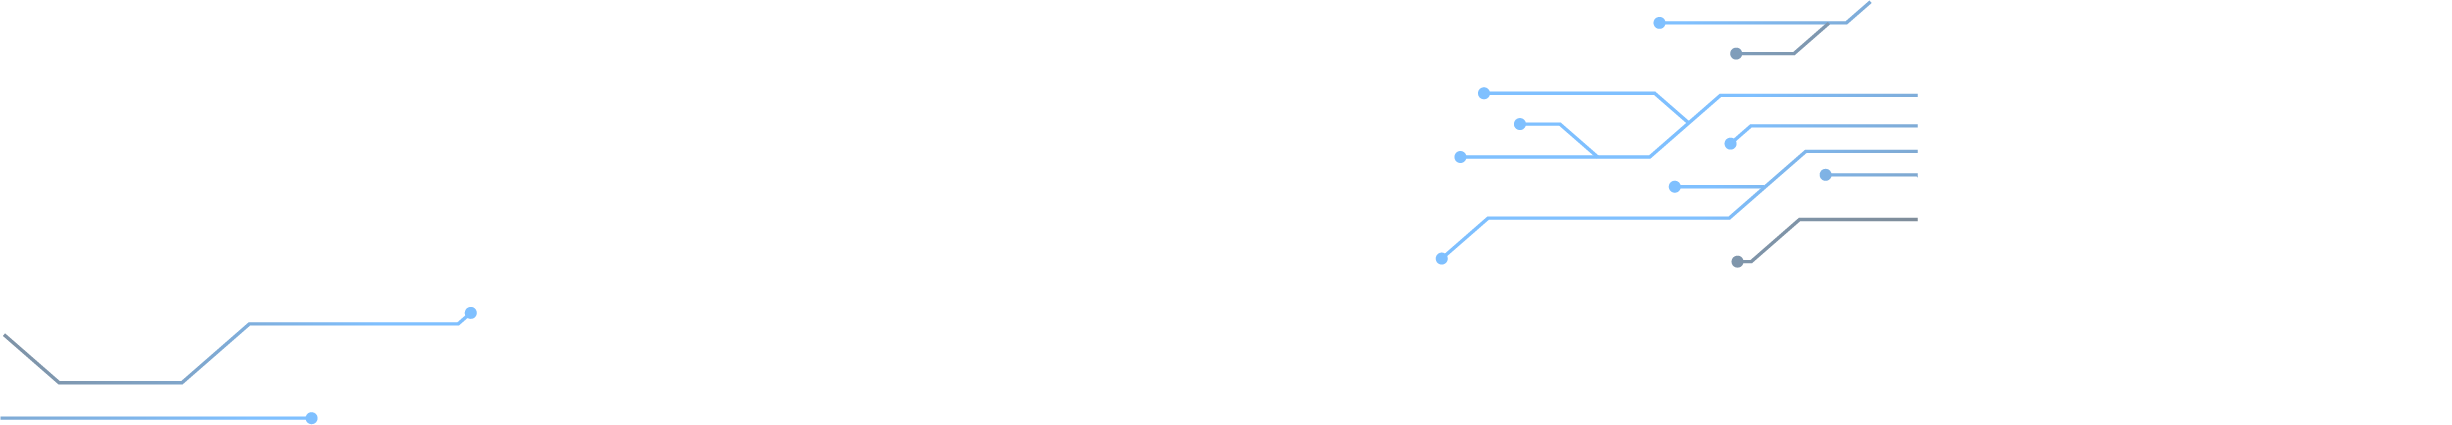
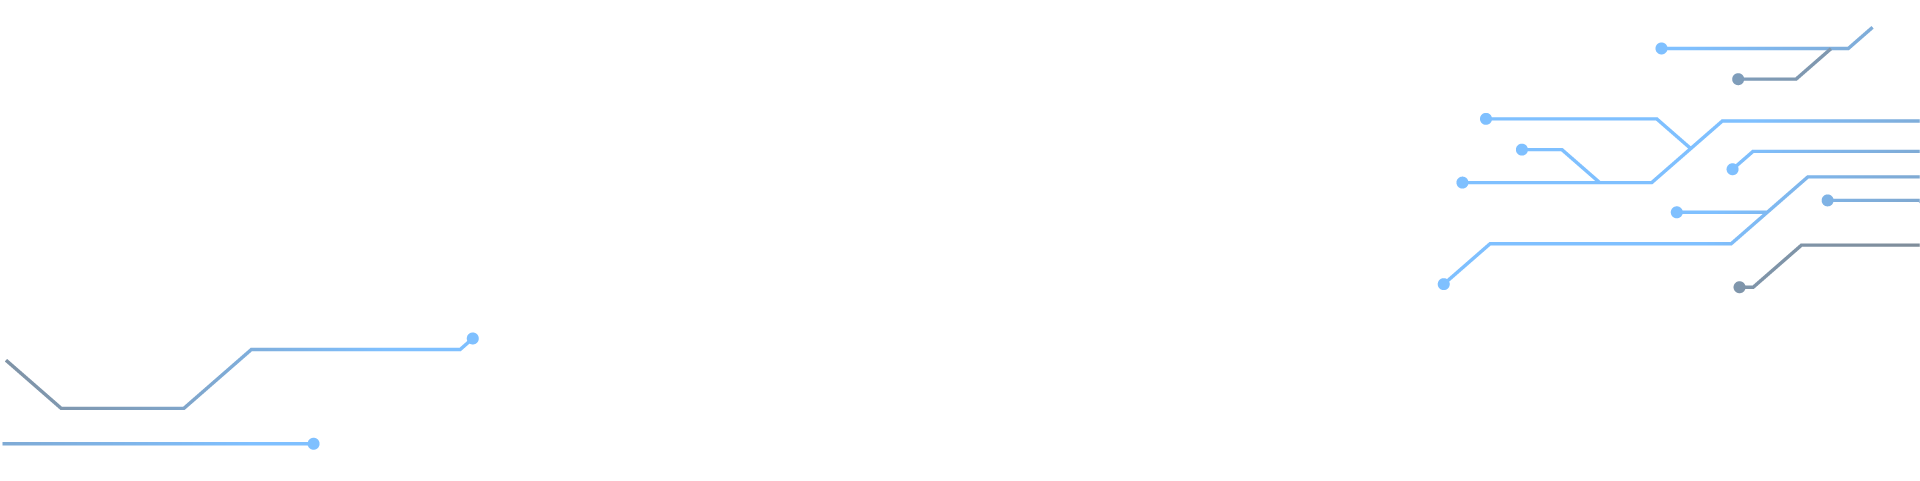
Finishing the history section

diff --git a/css/main.css b/css/main.css
@@ -1,1 +1,1 @@
-.title,.services__title,.companies__title{font-weight:600;color:#1C75BD;font-size:2rem}html{line-height:1.15;-webkit-text-size-adjust:100%;box-sizing:border-box;scroll-behavior:smooth}*,*:after,*:before{box-sizing:inherit}body{font-family:'Dosis', sans-serif;margin:0}main{display:block}h1{font-size:2em;margin:0.67em 0}hr{box-sizing:content-box;height:0;overflow:visible}pre{font-family:monospace, monospace;font-size:1em}a{background-color:transparent;text-decoration:none}abbr[title]{border-bottom:none;text-decoration:underline;text-decoration:underline dotted}b,strong{font-weight:bolder}code,kbd,samp{font-family:monospace, monospace;font-size:1em}small{font-size:80%}sub,sup{font-size:75%;line-height:0;position:relative;vertical-align:baseline}sub{bottom:-0.25em}sup{top:-0.5em}img{display:block;width:100%;border-style:none}button,input,optgroup,select,textarea{font-family:inherit;font-size:100%;line-height:1.15;margin:0}button,input{overflow:visible}button,select{text-transform:none}button,[type="button"],[type="reset"],[type="submit"]{-webkit-appearance:button}button::-moz-focus-inner,[type="button"]::-moz-focus-inner,[type="reset"]::-moz-focus-inner,[type="submit"]::-moz-focus-inner{border-style:none;padding:0}button:-moz-focusring,[type="button"]:-moz-focusring,[type="reset"]:-moz-focusring,[type="submit"]:-moz-focusring{outline:1px dotted ButtonText}fieldset{padding:0.35em 0.75em 0.625em}legend{box-sizing:border-box;color:inherit;display:table;max-width:100%;padding:0;white-space:normal}progress{vertical-align:baseline}textarea{overflow:auto}[type="checkbox"],[type="radio"]{box-sizing:border-box;padding:0}[type="number"]::-webkit-inner-spin-button,[type="number"]::-webkit-outer-spin-button{height:auto}[type="search"]{-webkit-appearance:textfield;outline-offset:-2px}[type="search"]::-webkit-search-decoration{-webkit-appearance:none}::-webkit-file-upload-button{-webkit-appearance:button;font:inherit}details{display:block}summary{display:list-item}template{display:none}[hidden]{display:none}ul{margin:0;padding:0;list-style:none}.container{max-width:1170px;width:90vw;margin-left:auto;margin-right:auto}.navigation{position:sticky;top:0;width:100%;min-height:6rem;background-color:#fff;-webkit-box-shadow:0px -5px 74px -8px rgba(0,0,0,0.2);-moz-box-shadow:0px -5px 74px -8px rgba(0,0,0,0.2);box-shadow:0px -5px 74px -8px rgba(0,0,0,0.2);z-index:1}.navigation .container{display:flex;justify-content:space-between;align-items:center;min-height:100%}@media screen and (max-width: 768px){.navigation .container{flex-direction:column;align-items:flex-start}}.navigation-main{min-height:6rem;display:flex;justify-content:space-between;align-items:center}@media screen and (max-width: 768px){.navigation-main{width:100%}}.navigation-brand{margin-right:2rem}.navigation-brand__link{display:block}.navigation-brand__image{width:13rem}.navigation-menu{display:flex;flex-wrap:wrap;transition:all 300ms ease}@media screen and (max-width: 768px){.navigation-menu{flex-direction:column;height:0;overflow:hidden}}.navigation-menu.active{height:auto;overflow:visible}.navigation-menu__item{margin-right:2rem}.navigation-menu__item:last-of-type{margin-right:0}@media screen and (max-width: 768px){.navigation-menu__item{margin-right:0;margin-bottom:1rem}}.navigation-menu__link{display:block;color:#aaa;font-weight:600;font-size:1.1rem;padding:0.25rem 0;transition:color 300ms ease}.navigation-menu__link:hover{color:#848484}.navigation-bars{display:none}@media screen and (max-width: 768px){.navigation-bars{display:block;justify-content:flex-end;font-size:1.25rem;cursor:pointer;padding:1rem}}.footer{background-color:#262161;padding-top:3rem;padding-bottom:3rem}.footer-main{display:grid;grid-template-columns:auto 1fr;grid-column-gap:8rem;align-items:center}.footer-main__menu{display:grid;grid-template-columns:repeat(2, 15rem)}.footer-main__item{margin-bottom:1rem}.footer-main__link{color:#fff;display:inline-block;font-size:1.375rem;text-transform:uppercase}.footer-brand{margin-bottom:3rem}.footer-brand__link{display:inline-block}.footer-brand__image{width:16rem}.footer-info__text{display:block;color:#1C75BD;font-weight:600;font-size:1.15rem;margin-bottom:0.3rem}.footer-copy__text{text-align:center;text-transform:uppercase;color:#262161;font-size:1.5rem;font-weight:600}.footer-copy__text a{color:inherit}.header-home{display:grid;grid-template-rows:400px 1fr}.header-home__image{object-fit:cover;height:100%}.header-home__info{background:#262161;background:linear-gradient(90deg, #262161 0%, #1c75bd 90%);color:#fff;font-size:1.4rem;min-height:10rem;display:flex;align-items:center;justify-content:center;position:relative}.header-home__info:before{content:'';display:block;position:absolute;right:0;width:100%;min-height:10rem;background-image:url("../images/header-lines.png");background-repeat:no-repeat;background-size:cover;background-position:center 0}.services{margin-top:5rem;margin-bottom:5rem}.services-main{margin-top:3rem;display:grid;grid-template-columns:auto 1fr;grid-column-gap:2rem}@media screen and (max-width: 768px){.services-main{grid-template-columns:1fr}}.services-main__button{border:none;background-color:transparent;padding:0;display:block;cursor:pointer;padding-top:1rem;display:grid;grid-template-columns:auto 15rem auto;grid-column-gap:1.5rem;align-items:center;padding-bottom:1rem;border-bottom:1px solid #1C75BD}.services-main__button:focus,.services-main__button:active{outline:none}@media screen and (max-width: 768px){.services-main__button{grid-template-columns:auto 1fr 1rem;width:100%}}.services-main__text{text-align:left}.services-main__image{width:3.5rem}.services-main__arrow{font-size:1.25rem;color:#1C75BD}.services-content{display:grid;place-items:center}.join{display:grid;grid-template-columns:1.5fr 2fr;min-height:16rem}@media screen and (max-width: 768px){.join{grid-template-columns:1fr}}.join__media{position:relative}.join__image{position:absolute;height:100%;object-fit:cover;top:-1rem}@media screen and (max-width: 768px){.join__image{position:initial}}.join__info{background-color:#1C75BD;padding:2rem 10rem;min-height:16rem;margin-left:-1rem;display:flex;flex-direction:column;justify-content:center;align-items:flex-end}@media screen and (max-width: 992px){.join__info{padding:2rem 5rem}}@media screen and (max-width: 768px){.join__info{padding:2rem 2rem}}.join__detail{display:flex;justify-content:center}.join__description{margin:0;color:#fff;font-size:1.25rem}.join__action{margin-top:1.5rem;margin-left:auto}@media screen and (max-width: 1100px){.join__action{display:flex;flex-direction:column}}.join__button{display:inline-block;padding:0.5rem 1.5rem;background-color:transparent;border:2px solid #fff;font-weight:600;color:#fff;text-align:center;margin-left:1rem}@media screen and (max-width: 1100px){.join__button{margin-top:1rem}}.companies{background-color:#eaeaea;margin-top:-3rem;padding-top:5rem;padding-bottom:3rem}.companies__title{text-align:center}.companies__grid{margin-top:3rem;display:grid;grid-template-columns:repeat(7, 1fr);grid-gap:2rem 1rem;justify-items:center}.companies__image{width:4rem}
+.title,.services__title,.companies__title,.history__title{font-weight:600;color:#1C75BD;font-size:2rem}html{line-height:1.15;-webkit-text-size-adjust:100%;box-sizing:border-box;scroll-behavior:smooth;overflow-x:hidden}*,*:after,*:before{box-sizing:inherit}body{font-family:'Dosis', sans-serif;margin:0}main{display:block}h1{font-size:2em;margin:0.67em 0}hr{box-sizing:content-box;height:0;overflow:visible}pre{font-family:monospace, monospace;font-size:1em}a{background-color:transparent;text-decoration:none}abbr[title]{border-bottom:none;text-decoration:underline;text-decoration:underline dotted}b,strong{font-weight:bolder}code,kbd,samp{font-family:monospace, monospace;font-size:1em}small{font-size:80%}sub,sup{font-size:75%;line-height:0;position:relative;vertical-align:baseline}sub{bottom:-0.25em}sup{top:-0.5em}img{display:block;width:100%;border-style:none}button,input,optgroup,select,textarea{font-family:inherit;font-size:100%;line-height:1.15;margin:0}button,input{overflow:visible}button,select{text-transform:none}button,[type="button"],[type="reset"],[type="submit"]{-webkit-appearance:button}button::-moz-focus-inner,[type="button"]::-moz-focus-inner,[type="reset"]::-moz-focus-inner,[type="submit"]::-moz-focus-inner{border-style:none;padding:0}button:-moz-focusring,[type="button"]:-moz-focusring,[type="reset"]:-moz-focusring,[type="submit"]:-moz-focusring{outline:1px dotted ButtonText}fieldset{padding:0.35em 0.75em 0.625em}legend{box-sizing:border-box;color:inherit;display:table;max-width:100%;padding:0;white-space:normal}progress{vertical-align:baseline}textarea{overflow:auto}[type="checkbox"],[type="radio"]{box-sizing:border-box;padding:0}[type="number"]::-webkit-inner-spin-button,[type="number"]::-webkit-outer-spin-button{height:auto}[type="search"]{-webkit-appearance:textfield;outline-offset:-2px}[type="search"]::-webkit-search-decoration{-webkit-appearance:none}::-webkit-file-upload-button{-webkit-appearance:button;font:inherit}details{display:block}summary{display:list-item}template{display:none}[hidden]{display:none}ul{margin:0;padding:0;list-style:none}.container{max-width:1170px;width:90vw;margin-left:auto;margin-right:auto}.navigation{position:sticky;top:0;width:100%;min-height:6rem;background-color:#fff;-webkit-box-shadow:0px -5px 74px -8px rgba(0,0,0,0.2);-moz-box-shadow:0px -5px 74px -8px rgba(0,0,0,0.2);box-shadow:0px -5px 74px -8px rgba(0,0,0,0.2);z-index:1}.navigation .container{display:flex;justify-content:space-between;align-items:center;min-height:100%}@media screen and (max-width: 768px){.navigation .container{flex-direction:column;align-items:flex-start}}.navigation-main{min-height:6rem;display:flex;justify-content:space-between;align-items:center}@media screen and (max-width: 768px){.navigation-main{width:100%}}.navigation-brand{margin-right:2rem}.navigation-brand__link{display:block}.navigation-brand__image{width:13rem}.navigation-menu{display:flex;flex-wrap:wrap;transition:all 300ms ease}@media screen and (max-width: 768px){.navigation-menu{flex-direction:column;height:0;overflow:hidden}}.navigation-menu.active{height:auto;overflow:visible}.navigation-menu__item{margin-right:2rem}.navigation-menu__item:last-of-type{margin-right:0}@media screen and (max-width: 768px){.navigation-menu__item{margin-right:0;margin-bottom:1rem}}.navigation-menu__link{display:block;color:#aaa;font-weight:600;font-size:1.1rem;padding:0.25rem 0;transition:color 300ms ease}.navigation-menu__link:hover{color:#848484}.navigation-bars{display:none}@media screen and (max-width: 768px){.navigation-bars{display:block;justify-content:flex-end;font-size:1.25rem;cursor:pointer;padding:1rem}}.footer{background-color:#262161;padding-top:3rem;padding-bottom:3rem;position:relative}.footer:before{content:'';display:block;position:absolute;left:0;right:0;width:100vw;min-height:100%;background-image:url("../images/header-lines.png");background-repeat:no-repeat;background-size:cover;background-position:center}.footer-main{display:grid;grid-template-columns:auto 1fr;grid-column-gap:8rem;align-items:center}.footer-main__menu{display:grid;grid-template-columns:repeat(2, 15rem)}.footer-main__item{margin-bottom:1rem}.footer-main__link{color:#fff;display:inline-block;font-size:1.375rem;text-transform:uppercase}.footer-brand{margin-bottom:3rem}.footer-brand__link{display:inline-block}.footer-brand__image{width:16rem}.footer-info__text{display:block;color:#1C75BD;font-weight:600;font-size:1.15rem;margin-bottom:0.3rem}.footer-copy__text{text-align:center;text-transform:uppercase;color:#262161;font-size:1.5rem;font-weight:600}.footer-copy__text a{color:inherit}.header-home{display:grid;grid-template-rows:400px 1fr}.header-home__image{object-fit:cover;height:100%}.header-home__info{background:#262161;background:linear-gradient(90deg, #262161 0%, #1c75bd 90%);color:#fff;font-size:1.4rem;min-height:12rem;display:flex;align-items:center;justify-content:center;position:relative}.header-home__info:before{content:'';display:block;position:absolute;right:0;width:100%;min-height:12rem;background-image:url("../images/header-lines.png");background-repeat:no-repeat;background-size:cover;background-position:center -5rem}.services{margin-top:5rem;margin-bottom:5rem}.services-main{margin-top:3rem;display:grid;grid-template-columns:auto 1fr;grid-column-gap:2rem}@media screen and (max-width: 768px){.services-main{grid-template-columns:1fr}}.services-main__button{border:none;background-color:transparent;padding:0;display:block;cursor:pointer;padding-top:1rem;display:grid;grid-template-columns:auto 15rem auto;grid-column-gap:1.5rem;align-items:center;padding-bottom:1rem;border-bottom:1px solid #1C75BD}.services-main__button:focus,.services-main__button:active{outline:none}@media screen and (max-width: 768px){.services-main__button{grid-template-columns:auto 1fr 1rem;width:100%}}.services-main__text{text-align:left}.services-main__image{width:3.5rem}.services-main__arrow{font-size:1.25rem;color:#1C75BD}.services-content{display:grid;place-items:center}.join{display:grid;grid-template-columns:1.5fr 2fr;min-height:16rem}@media screen and (max-width: 768px){.join{grid-template-columns:1fr}}.join__media{position:relative}.join__image{position:absolute;height:100%;object-fit:cover;top:-1rem}@media screen and (max-width: 768px){.join__image{position:initial}}.join__info{background-color:#1C75BD;padding:2rem 10rem;min-height:16rem;margin-left:-1rem;display:flex;flex-direction:column;justify-content:center;align-items:flex-end}@media screen and (max-width: 992px){.join__info{padding:2rem 5rem}}@media screen and (max-width: 768px){.join__info{padding:2rem 2rem}}.join__detail{display:flex;justify-content:center}.join__description{margin:0;color:#fff;font-size:1.25rem}.join__action{margin-top:1.5rem;margin-left:auto}@media screen and (max-width: 1100px){.join__action{display:flex;flex-direction:column}}.join__button{display:inline-block;padding:0.5rem 1.5rem;background-color:transparent;border:2px solid #fff;font-weight:600;color:#fff;text-align:center;margin-left:1rem}@media screen and (max-width: 1100px){.join__button{margin-top:1rem}}.companies{background-color:#eaeaea;margin-top:-3rem;padding-top:5rem;padding-bottom:3rem}.companies__title{text-align:center}.companies__grid{margin-top:3rem;display:grid;grid-template-columns:repeat(7, 1fr);grid-gap:2rem 1rem;justify-items:center}.companies__image{width:4rem}.about-header{display:grid;grid-template-columns:2fr 1fr}.about-header__info{background:#262161;background:linear-gradient(90deg, rgba(38,33,97,0.97) 0%, #262161 40%);color:#fff;display:flex;align-items:center;justify-content:center}.about-header__title{font-weight:600;font-size:2.5rem}.history{margin-top:4rem;margin-bottom:4rem}.history__grid{display:grid;grid-template-columns:1.7fr 1fr;grid-column-gap:3rem}@media screen and (max-width: 992px){.history__grid{grid-template-columns:repeat(2, 1fr)}}@media screen and (max-width: 768px){.history__grid{grid-template-columns:1fr;grid-row-gap:2rem}}.history__description{font-size:1.25rem;line-height:1.6}@media screen and (max-width: 768px){.history__pictures{display:grid;grid-template-columns:repeat(2, 1fr);grid-column-gap:2rem}}@media screen and (max-width: 576px){.history__pictures{grid-template-columns:1fr}}.history__media{margin-bottom:3rem}

diff --git a/about-us.html b/about-us.html
@@ -1,0 +1,229 @@
+<!DOCTYPE html>
+<html lang="en">
+
+<head>
+   <meta charset="UTF-8">
+   <meta name="viewport" content="width=device-width, initial-scale=1.0">
+   <link href="https://fonts.googleapis.com/css2?family=Dosis:wght@300;400;600;800&display=swap" rel="stylesheet">
+   <link rel="shortcut icon" href="./images/favicon.ico" type="image/x-icon">
+   <link rel="stylesheet" href="https://cdnjs.cloudflare.com/ajax/libs/font-awesome/5.15.1/css/all.min.css" />
+   <link rel="stylesheet" href="./css/main.css">
+   <title>Punto Ejecutivo</title>
+</head>
+
+<body>
+
+   <nav class="navigation">
+      <div class="container">
+         <div class="navigation-main">
+            <div class="navigation-brand">
+               <a href="#" class="navigation-brand__link">
+                  <img src="./images/logo-color.png" alt="" class="navigation-brand__image">
+               </a>
+            </div>
+            <div class="navigation-bars" id="btn-bars">
+               <div class="navigation-bars__icon">
+                  <i class="fas fa-bars"></i>
+               </div>
+            </div>
+         </div>
+         <ul class="navigation-menu" id="navigation-menu">
+            <li class="navigation-menu__item">
+               <a href="#" class="navigation-menu__link">Inicio</a>
+            </li>
+            <li class="navigation-menu__item">
+               <a href="#" class="navigation-menu__link">La Empresa</a>
+            </li>
+            <li class="navigation-menu__item">
+               <a href="#" class="navigation-menu__link">Servicios</a>
+            </li>
+            <li class="navigation-menu__item">
+               <a href="#" class="navigation-menu__link">Clientes</a>
+            </li>
+            <li class="navigation-menu__item">
+               <a href="#" class="navigation-menu__link">Novedades</a>
+            </li>
+            <li class="navigation-menu__item">
+               <a href="#" class="navigation-menu__link">Bolsa de Trabajo</a>
+            </li>
+            <li class="navigation-menu__item">
+               <a href="#" class="navigation-menu__link">Blog</a>
+            </li>
+            <li class="navigation-menu__item">
+               <a href="#" class="navigation-menu__link">Contacto</a>
+            </li>
+         </ul>
+      </div>
+   </nav>
+
+   <header class="about-header">
+      <div class="about-header__media">
+         <img src="./images/header-about.jpg" alt="" class="about-header__image">
+      </div>
+      <div class="about-header__info">
+         <h2 class="about-header__title">Quiénes somos</h2>
+      </div>
+   </header>
+
+   <section class="history container">
+      <h2 class="history__title">Historia</h2>
+      <div class="history__grid">
+         <div class="history__info">
+            <p class="history__description">
+               Lorem ipsum dolor sit amet, consectetuer adipiscing elit, sed diam nonummy
+               nibh euismod tincidunt ut laoreet dolore magna aliquam erat volutpat. Ut wisi
+               enim ad minim veniam, quis nostrud exerci tation ullamcorper suscipit lobortis
+               nisl ut aliquip ex ea commodo consequat. Duis autem vel eum iriure dolor in hen-
+               drerit in vulputate velit esse molestie consequat, vel illum dolore eu feugiat nulla
+               facilisis at vero eros et accumsan et iusto odio dignissim qui blandit praesent lup-
+               tatum zzril delenit augue duis dolore te feugait nulla facilisi.
+            </p>
+            <p class="history__description">
+               Lorem ipsum dolor sit amet, cons ectetuer adipiscing elit, sed diam nonummy
+               nibh euismod tincidunt ut laoreet dolore magna aliquam erat volutpat. Ut wisi
+               enim ad minim veniam, quis nostrud exerci tation ullamcorper suscipit lobortis
+               nisl ut aliquip ex ea commodo consequat.
+            </p>
+            <p class="history__description">
+               Lorem ipsum dolor sit amet, consectetuer adipiscing elit, sed diam nonummy
+               nibh euismod tincidunt ut laoreet dolore magna aliquam erat volutpat. Ut wisi
+               enim ad minim veniam, quis nostrud exerci tation ullamcorper suscipit lobortis
+               nisl ut aliquip ex ea commodo consequat. Duis autem vel eum iriure dolor in hen-
+               drerit in vulputate velit esse molestie consequat, vel illum dolore eu feugiat nulla
+               facilisis at vero eros et accumsan et iusto odio dignissim qui blandit praesent lup-
+               tatum zzril delenit augue duis dolore te feugait nulla facilisi.
+            </p>
+            <p class="history__description">
+               Lorem ipsum dolor sit amet, consectetuer adipiscing elit, sed diam nonummy
+               nibh euismod tincidunt ut laoreet dolore magna aliquam erat volutpat. Ut wisi
+               enim ad minim veniam, quis nostrud exerci tation ullamcorper suscipit lobortis
+               nisl ut aliquip ex ea commodo consequat. Duis autem vel eum iriure dolor in hen-
+               drerit in vulputate velit esse molestie consequat, vel illum dolore eu feugiat nulla
+               facilisis at vero eros et accumsan et iusto odio dignissim qui blandit praesent lup-
+               tatum zzril delenit augue duis dolore te feugait nulla facilisi.
+            </p>
+            <p class="history__description">
+               Lorem ipsum dolor sit amet, consectetuer adipiscing elit, sed diam nonummy
+               nibh euismod tincidunt ut laoreet dolore magna aliquam erat volutpat. Ut wisi
+               enim ad minim veniam, quis nostrud exerci tation ullamcorper suscipit lobortis
+               nisl ut aliquip ex ea commodo consequat. Duis autem vel eum iriure dolor in hen-
+               drerit in vulputate velit esse molestie consequat, vel illum dolore eu feugiat nulla
+               facilisis at vero eros et accumsan et iusto odio dignissim qui blandit praesent lup-
+               tatum zzril delenit augue duis dolore te feugait nulla facilisi.
+            </p>
+            <p class="history__description">
+               Lorem ipsum dolor sit amet, cons ectetuer adipiscing elit, sed diam nonummy
+               nibh euismod tincidunt ut laoreet dolore magna aliquam erat volutpat. Ut wisi
+               enim ad minim veniam, quis nostrud exerci tation ullamcorper suscipit lobortis
+               nisl ut aliquip ex ea commodo consequat.
+            </p>
+            <p class="history__description">
+               Lorem ipsum dolor sit amet, consectetuer adipiscing elit, sed diam nonummy
+               nibh euismod tincidunt ut laoreet dolore magna aliquam erat volutpat. Ut wisi
+               enim ad minim veniam, quis nostrud exerci tation ullamcorper suscipit lobortis
+               nisl ut aliquip ex ea commodo consequat. Duis autem vel eum iriure dolor in hen-
+               drerit in vulputate velit esse molestie consequat, vel illum dolore eu feugiat nulla
+               facilisis at vero eros et accumsan et iusto odio dignissim qui blandit praesent lup-
+               tatum zzril delenit augue duis dolore te feugait nulla facilisi.
+            </p>
+            <p class="history__description">
+               Lorem ipsum dolor sit amet, cons ectetuer adipiscing elit, sed diam nonummy
+               nibh euismod tincidunt ut laoreet dolore magna aliquam erat volutpat. Ut wisi
+               enim ad minim veniam, quis nostrud exerci tation ullamcorper suscipit lobortis
+               nisl ut aliquip ex ea commodo consequat.
+            </p>
+            <p class="history__description">
+               Lorem ipsum dolor sit amet, consectetuer adipiscing elit, sed diam nonummy
+               nibh euismod tincidunt ut laoreet dolore magna aliquam erat volutpat. Ut wisi
+               enim ad minim veniam, quis nostrud exerci tation ullamcorper suscipit lobortis
+               nisl ut aliquip ex ea commodo consequat. Duis autem vel eum iriure dolor in hen-
+               drerit in vulputate velit esse molestie consequat, vel illum dolore eu feugiat nulla
+               facilisis at vero eros et accumsan et iusto odio dignissim qui blandit praesent lup-
+               tatum zzril delenit augue duis dolore te feugait nulla facilisi.
+            </p>
+            <p class="history__description">
+               Lorem ipsum dolor sit amet, cons ectetuer adipiscing elit, sed diam nonummy
+               nibh euismod tincidunt ut laoreet dolore magna aliquam erat volutpat. Ut wisi
+               enim ad minim veniam, quis nostrud exerci tation ullamcorper suscipit lobortis
+               nisl ut aliquip ex ea commodo consequat.
+            </p>
+            <p class="history__description">
+               Lorem ipsum dolor sit amet, cons ectetuer adipiscing elit, sed diam nonummy
+               nibh euismod tincidunt ut laoreet dolore magna aliquam erat volutpat. Ut wisi
+               enim ad minim veniam, quis nostrud exerci tation ullamcorper suscipit lobortis
+               nisl ut aliquip ex ea commodo consequat.
+            </p>
+         </div>
+         <div class="history__pictures">
+            <div class="history__media">
+               <img src="./images/historia-01.jpg" alt="" class="history__image">
+            </div>
+            <div class="history__media">
+               <img src="./images/historia-02.jpg" alt="" class="history__image">
+            </div>
+            <div class="history__media">
+               <img src="./images/historia-03.jpg" alt="" class="history__image">
+            </div>
+         </div>
+      </div>
+   </section>
+
+   <footer class="footer">
+      <div class="container">
+         <div class="footer-main">
+            <div class="footer-main__left">
+               <div class="footer-brand">
+                  <a href="#" class="footer-brand__link">
+                     <img src="./images/logo-blanco.png" alt="" class="footer-brand__image">
+                  </a>
+               </div>
+               <div class="footer-info">
+                  <span class="footer-info__text">
+                     Tte. 1o José D. López 142 c/ Avda. Mcal. López.
+                  </span>
+                  <span class="footer-info__text">
+                     Asunción - Paraguay
+                  </span>
+                  <span class="footer-info__text">
+                     +595 21 - 50 22 85
+                  </span>
+                  <span class="footer-info__text">
+                     +595 974 - 302 795
+                  </span>
+               </div>
+            </div>
+            <div class="footer-main__right">
+               <ul class="footer-main__menu">
+                  <div>
+                     <li class="footer-main__item">
+                        <a href="#" class="footer-main__link">Novedades</a>
+                     </li>
+                     <li class="footer-main__item">
+                        <a href="#" class="footer-main__link">Bolsa de Trabajo</a>
+                     </li>
+                     <li class="footer-main__item">
+                        <a href="#" class="footer-main__link">Postulate</a>
+                     </li>
+                  </div>
+                  <div>
+                     <li class="footer-main__item">
+                        <a href="#" class="footer-main__link">Contacto</a>
+                     </li>
+                     <li class="footer-main__item">
+                        <a href="#" class="footer-main__link">Blog</a>
+                     </li>
+                  </div>
+               </ul>
+            </div>
+         </div>
+      </div>
+   </footer>
+   <div class="footer-copy">
+      <p class="footer-copy__text">Diseño y desarrollo por <a href="" target="_blank">Fincreativo</a></p>
+   </div>
+
+   <script src="./js/app.js"></script>
+
+</body>
+
+</html>

diff --git a/sass/section/_history.scss b/sass/section/_history.scss
@@ -1,0 +1,46 @@
+
+.history {
+   margin-top: 4rem;
+   margin-bottom: 4rem;
+
+   &__grid {
+      display: grid;
+      grid-template-columns: 1.7fr 1fr;
+      grid-column-gap: 3rem;
+
+      @include responsive(992px) {
+         grid-template-columns: repeat(2, 1fr);
+      }
+
+      @include responsive(768px) {
+         grid-template-columns: 1fr;
+         grid-row-gap: 2rem;
+      }
+   }
+
+   &__title {
+      @extend .title;
+   }
+
+   &__description {
+      font-size: 1.25rem;
+      line-height: 1.6;
+   }
+
+   &__pictures {
+
+      @include responsive(768px) {
+         display: grid;
+         grid-template-columns: repeat(2, 1fr);
+         grid-column-gap: 2rem;
+      }
+
+      @include responsive(576px) {
+         grid-template-columns: 1fr;
+      }
+   }
+
+   &__media {
+      margin-bottom: 3rem;
+   }
+}

diff --git a/sass/layout/_header.scss b/sass/layout/_header.scss
@@ -13,7 +13,7 @@
       background: linear-gradient(90deg, rgba(38,33,97,1) 0%, rgba(28,117,189,1) 90%);
       color: $lightColor;
       font-size: 1.4rem;
-      min-height: 10rem;
+      min-height: 12rem;
       display: flex;
       align-items: center;
       justify-content: center;
@@ -25,11 +25,11 @@
          position: absolute;
          right: 0;
          width: 100%;
-         min-height: 10rem;
+         min-height: 12rem;
          background-image: url('../images/header-lines.png');
          background-repeat: no-repeat;
          background-size: cover;
-         background-position: center 0;
+         background-position: center -5rem;
       }
    }
 }

diff --git a/sass/layout/_footer.scss b/sass/layout/_footer.scss
@@ -3,6 +3,21 @@
    background-color: $secondaryColor;
    padding-top: 3rem;
    padding-bottom: 3rem;
+   position: relative;
+
+   &:before {
+         content: '';
+         display: block;
+         position: absolute;
+         left: 0;
+         right: 0;
+         width: 100vw;
+         min-height: 100%;
+         background-image: url('../images/header-lines.png');
+         background-repeat: no-repeat;
+         background-size: cover;
+         background-position: center;
+      }
 
    &-main {
       display: grid;

diff --git a/sass/section/_about-header.scss b/sass/section/_about-header.scss
@@ -1,0 +1,19 @@
+
+.about-header {
+   display: grid;
+   grid-template-columns: 2fr 1fr;
+
+   &__info {
+      background: rgb(38,33,97);
+      background: linear-gradient(90deg, rgba(38,33,97,0.97) 0%, rgba(38,33,97,1) 40%);
+      color: $lightColor;
+      display: flex;
+      align-items: center;
+      justify-content: center;
+   }
+
+   &__title {
+      font-weight: 600;
+      font-size: 2.5rem;
+   }
+}

diff --git a/sass/main.scss b/sass/main.scss
@@ -13,6 +13,8 @@
 @import "section/services";
 @import "section/join";
 @import "section/companies";
+@import "section/about-header";
+@import "section/history";
 
 @import "pages/home";
 

diff --git a/sass/base/_reset.scss b/sass/base/_reset.scss
@@ -4,6 +4,7 @@ html {
    -webkit-text-size-adjust: 100%;
    box-sizing: border-box;
    scroll-behavior: smooth;
+   overflow-x: hidden;
 }
 
 *, *:after, *:before {
